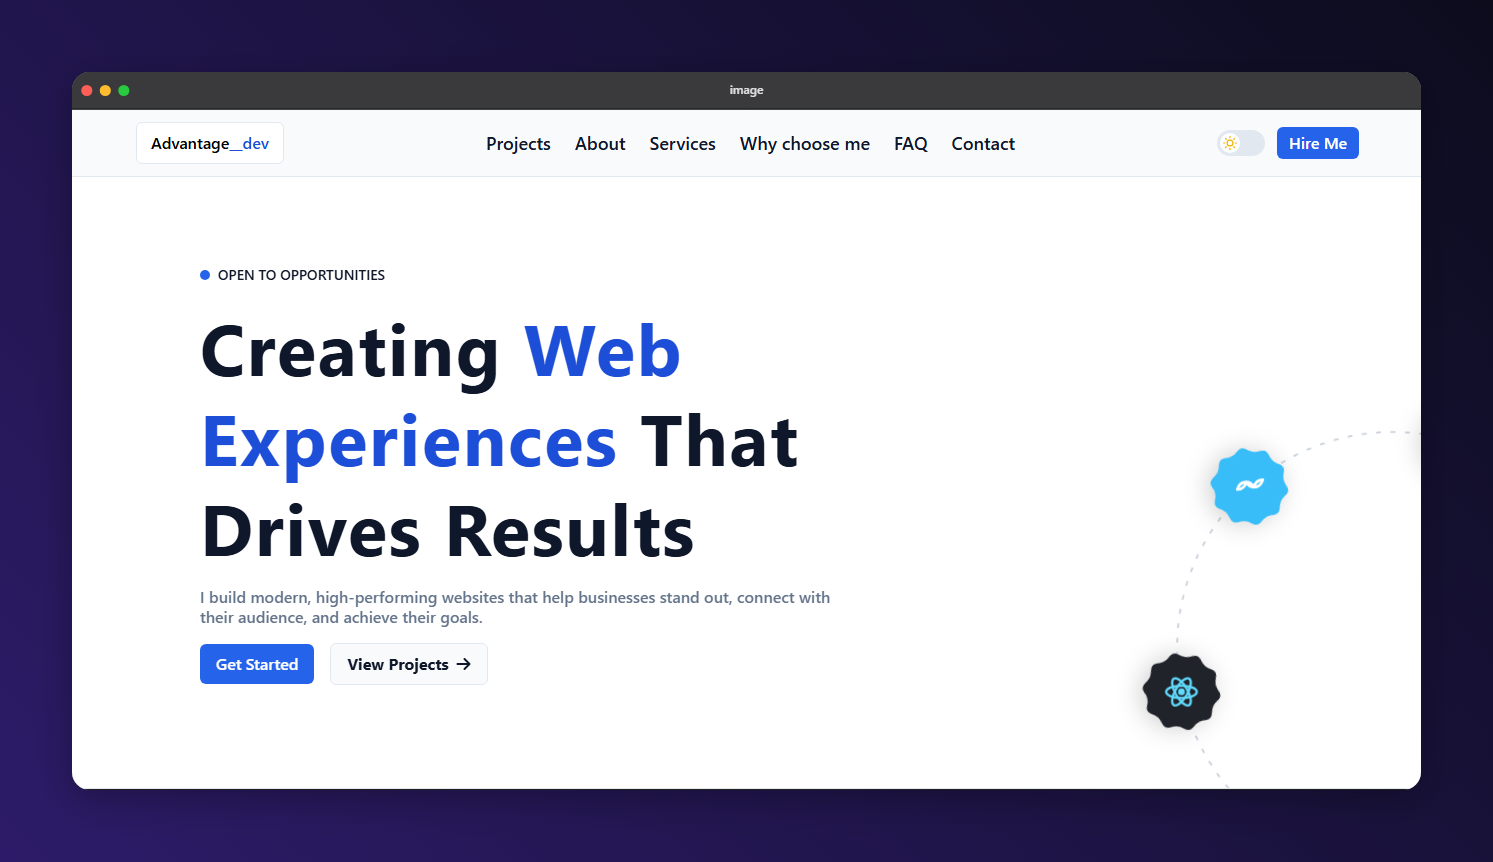
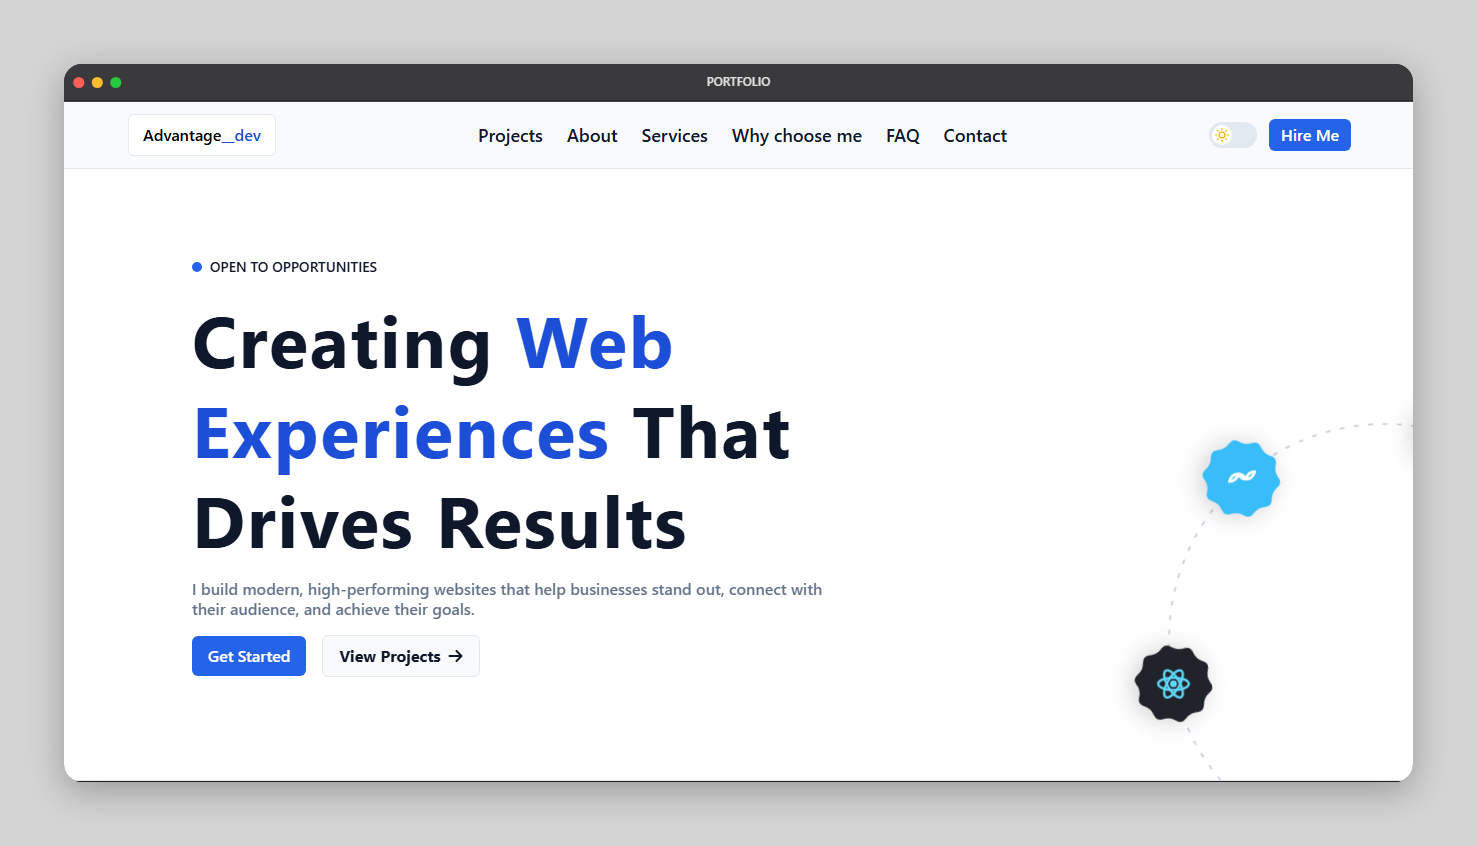
change portfolioproject image in projects page

diff --git a/Portfolio/src/Comp/projects.jsx b/Portfolio/src/Comp/projects.jsx
@@ -9,7 +9,7 @@ const projects = [
     title: 'Grandeur Reply Assistant',
     desc: 'An AI-powered personal assistant built with an agent-based architecture, using Ollama and Gemma to enable local AI inference and intelligent task handling.',
     stack: [
-      'React',
+      'React.js',
       'CSS3',
       'TypeScript',
       'Node.js',
@@ -27,7 +27,7 @@ const projects = [
     tag: '02 — Portfolio',
     title: 'A Professional Portfolio',
     desc: 'A modern developer portfolio built to showcase my work, skills, and services through a clean, responsive, and interactive experience.',
-    stack: ['React', 'TailwindCSS', 'Framer-Motion', 'VITE'],
+    stack: ['React.js', 'TailwindCSS', 'Framer-Motion', 'VITE'],
     img: '/images/portfolio.png',
     livelink: 'https://ojekunledavidjoy-portfolio.vercel.app/',
     gitlink: 'https://github.com/Advantage6dev/Professional-Portfolio',
